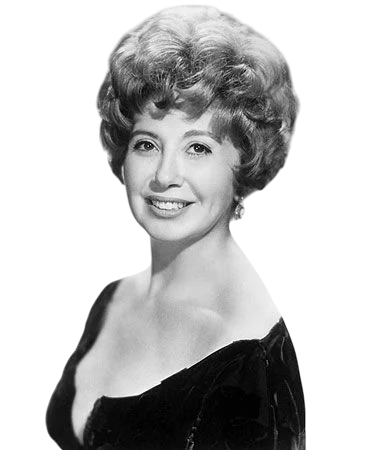
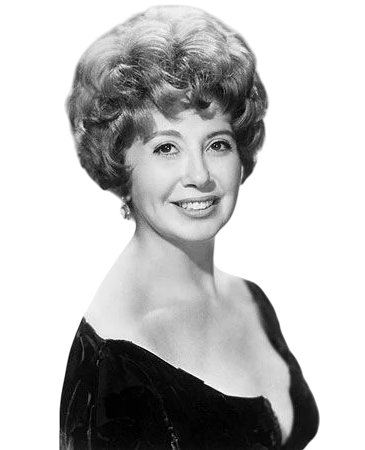
Read : photos enhanced + cuadro designed as per Figma

diff --git a/src/array/Array.jsx b/src/array/Array.jsx
@@ -10,12 +10,6 @@ const phrases = [
     phrase : "I am my own sanctuary and I can be reborn as many times as I choose throughout my life.",
     photo : "./photos/Lady-Gaga.png"
     },
-    
-    {name : "Ruth Bader Ginsburg",
-     role : "American Lawyer and Jurist",
-     phrase : "As women achieve power, the barriers will fall. As society sees what women can do, as women see what women can do, there will be more women out there doing things, and we'll all be better off for it.",
-     photo : "./photos/Ruth-Bader-Ginsburg.png"
-    },
 
     {name : "Michelle Obama", 
      role : "American Attorney, Author & Former First Lady of the United States", 
@@ -33,12 +27,6 @@ const phrases = [
      role : "Fashion Designer & Businesswoman",
      phrase : "A girl should be two things: Who and what she wants.",
          photo : "./photos/Coco-Chanel.png"
-    },
-
-    {name : "Dolly Parton",
-     role : "Singer-songwriter & Musician",
-     phrase : "As long as you live. there's something new everyday.",
-         photo : "./photos/Dolly-Parton.png"
     },
 
     {name : "Judy Garland", 
@@ -101,40 +89,16 @@ const phrases = [
          photo : "./photos/Audre-Lorde.png"
     },
 
-    {name : "Rupi Kaur", 
-     role : "Poet, Illustrator, Photographer & Author",
-     phrase : "What's the greatest lesson a woman should learn? That since day one, she's already had everything she needs within herself. It's the world that convinced her she did not.",
-         photo : "./photos/Rupi-Kaur.png"
-    },
-
-    {name : "June Sarpong",
-     role : "Television Presenter & Executive",
-     phrase : "Believe in yourself and be proud of who you are. Don't let anyone tell you differently. There is beauty in everyone and no one should stop you from growing into a confident and strong young person.",
-         photo : "./photos/June-Sarpong.webp"
-    },
-
     {name : "Isabel Allende",
      role : "Author",
      phrase : "I can promise you that women working together - linked, informed, and educated - can bring peace and prosperity to this forsaken planet.",
          photo : "./photos/Isabel-Allende.png"
     },
 
-    {name : "Beanie Feldstein",
-     role : "Actress", 
-     phrase : "Take the wisdoms of the women in this world and keep them at your side, always.",
-         photo : "./photos/Beanie-Feldstein.png"
-    },
-
     {name : "Alex Elle",
      role : "Author, Wellness Educator & Podcast Host",
      phrase : "I am thankful for my struggle because, without it, I wouldn't have stumbled across my strength",
          photo : "./photos/Alex-Elle.png"
-    },
-
-    {name : "Alaa Murabit", 
-     role : "Physician", 
-     phrase : "I will always be the girl who believed she could make it to the moon, in a world that still debates whether girls should have an education and whether women should have reproductive rights.",
-         photo : "./photos/Alaa-Murabit.png"
     },
 
     {name : "G.D. Anderson", 
@@ -147,12 +111,6 @@ const phrases = [
      role : "Actress & Activist",
      phrase : "Do not ever sell yourself short.",
          photo : "./photos/Jameela-Jamil.png"
-    },
-
-    {name : "Maya Angelou", 
-     role : "Memoirist, Poet & Civil Rights Activist",
-     phrase : "I am grateful to be a woman. I must have done something great in another life.",
-         photo : "./photos/Maya-Angelou.png"
     },
 
     {name : "Jane Goodall", 
@@ -171,12 +129,6 @@ const phrases = [
      role : "Actress",
      phrase : "I'd rather regret the things I've done than regret the things I haven't done.",
          photo : "./photos/Lucille-Ball.png"
-    },
-
-    {name : "Matilda Joslyn Gage", 
-     role : "Writer & Activist",
-     phrase : "The women of today are the thoughts of their mothers and grandmothers, embodied and made alive. They are active, capable, determined and bound to win. They have one-thousand generations back of them...Millions of women dead and gone are speaking through us today.",
-         photo : "./photos/Matilda-Joslyn-Gage.png"
     },
 
     {name : "Arianna Huffington", 
@@ -209,18 +161,6 @@ const phrases = [
         photo : "./photos/Beverly-Sills.png"
     },
 
-    {name : "Mindy Kaling", 
-     role : "Actress, Screenwriter & Producer",
-     phrase : "If you don't see a clear path for what you want, sometimes you have to make it yourself.",
-         photo : "./photos/Mindy-Kaling.png"
-    },
-
-    {name : "Dame Jessica Ennis-Hill",
-     role : "Track & Field Athlete",
-     phrase : "The only one who can tell you 'you can't win' is you, and you don't have to listen.",
-         photo : "./photos/Dame-Jessica-Ennis-Hill.png"
-    },
-
     {name : "Margaret Fuller", 
      role : "Journalist, Editor, Critic, Translator & Activist",
      phrase : "If you have knowledge, let others light their candles in it.",
@@ -233,22 +173,10 @@ const phrases = [
          photo : "./photos/Marilyn-Monroe.png"
     },
 
-    {name : "Oprah Winfrey",
-     role : "Talk Show Host, Television Producer, Actress & Author",
-     phrase : "If you look at what you have in life, you'll always have more. If you look at what you don't have in life, you'll never have enough.",
-         photo : "./photos/Oprah-Winfrey.png"
-    },
-
     {name : "Angela Yee", 
      role : "Radio Personality",
      phrase : "I can encourage the women who are striving to get their footing in the world to keep pushing and to express themselves.",
-         photo : "./photos/Angela-Yee.webp"
-    },
-
-    {name : "Blake Lively", 
-     role : "Actress",
-     phrase : "The most beautiful thing a woman can wear is confidence.",
-         photo : "./photos/Blake-Lively.png"
+         photo : "./photos/Angela-Yee.png"
     },
 
     {name : "Carolina Herrera", 
@@ -267,18 +195,6 @@ const phrases = [
      role : "Activist",
      phrase : "I have learned you are never too small to make a difference.",
          photo : "./photos/Greta-Thunberg.png"
-    },
-
-    {name : "Misty Copeland", 
-     role : "Ballet Dancer",
-     phrase : "Be strong, be fearless, be beautiful. And believe that anything is possible when you have the right people there to support you.",
-         photo : "./photos/Misty-Copeland.png"
-    },
-
-    {name : "Nikita Gill", 
-     role : "Poet, Playwright, Writer & Illustrator",
-     phrase : "Never ever mistake her silence for weakness. Remember that sometimes the air stills before the onset of a hurricane.",
-         photo : "./photos/Nikita-Gill.png"
     },
 
     {name : "Amani Al-Khatahtbeh", 

diff --git a/src/ViewPhrases.css b/src/ViewPhrases.css
@@ -6,10 +6,13 @@
     width: 50%;
     max-width: 3500px;
     max-height: 100%;
-    min-width: 50vw;
-    min-width: 50vw;
+    min-width: 20vw;
+    min-height: auto;
     position: fixed;
     bottom: 0;
+    left: 0;
+    flex-shrink: 1;
+    flex-grow: 1;
 }
 
 .carousel {
@@ -18,17 +21,17 @@
     left: 45%;
     top: 30%;
 }
+
 .viewButtons {
     display: flex;
     flex-direction: column;
-    background-color: rgb(240,230,239);
+    background-color:#F0E6EF;;
     border-radius: 100px;
     align-items: center;
     margin: 50px;
     width: 500px;
-    height: 1000px;
+    height: 1500px;
     border: 1px outset rgb(84, 54, 112);
-
 }
 
 #box1 {
@@ -37,7 +40,6 @@
     top: 30px;
     box-shadow: 5px 5px 0px 0px rgb(84, 54, 112); 
     z-index: 1;
-
 }
 
 #box3 {
@@ -48,29 +50,6 @@
     z-index: 1;
 }
 
-#box3:hover {
-    background-color: rgb(206, 161, 248);
-}
-
-#box1:hover {
-    background-color: rgb(206, 161, 248);
-}
-
-.viewInfo {
-    display: flex;
-    flex-direction: column;
-    background-color: rgb(240,230,239);
-    border-radius: 100px;
-    align-items: center;
-    margin: 50px;
-    border: 1px outset rgb(84, 54, 112);
-    width: 2000px;
-    height: 1000px;
-    box-shadow: 5px 5px 0px 0px rgb(84, 54, 112); 
-    z-index: 2;
-
-}
-
 .quoteIcon {
     width: 200px;
     align-self: flex-start;
@@ -79,26 +58,111 @@
     top: 50px;
 }
 
-.viewInfo:hover {
-    background-color: rgb(170, 99, 236);
+.viewInfo {
+    position: relative;
+    display: flex;
+    flex-direction: column;
+    background-color: #F0E6EF;
+    border-radius: 100px;
+    align-items: center;
+    margin: 50px;
+    border: 1px outset rgb(84, 54, 112);
+    width: 35vw;
+    height: 1500px;
+    box-shadow: 5px 5px 0px 0px rgb(84, 54, 112); 
+    z-index: 2;
 }
 
-p {
-    padding: 50px;
-}
 .viewPhrase {
     opacity: 1;
-    font-size: 3vmin;
-    padding-bottom: 0;
+    font-size: clamp(6.5rem, 2vw, 2rem);
     font-family: "Inter", sans-serif;
+    padding-left: 100px;
+    padding-right: 100px;
+}
 
+hr {
+    border-bottom: 15px solid #9C89B8;
+    margin-top: 250px;
+    position: absolute;
+    bottom: 350px;
+    width: 85%;
 }
 
 .viewAuthor {
+    position: absolute;
+    bottom: 0px;
     align-self: flex-end;
     font-size: 80%;
     font-size: 3vmin;
-    padding-top: 0;
-        font-family: "Inter", sans-serif;
+    font-size: 2vmax;
+    margin-top: 150px;
+    font-family: "Inter", sans-serif;
+    padding-right: 75px;
 }
 
+
+.viewInfo:hover {
+    background-color: rgb(218, 204, 231);
+}
+#box3:hover {
+    background-color: rgb(206, 161, 248);
+}
+#box1:hover {
+    background-color: rgb(206, 161, 248);
+}
+
+/*
+
+@media (max-width: 600px) {
+    .viewContainer {
+    display: flex;
+    flex-direction: column;
+    justify-content: center;
+    }
+    .viewPhoto {
+    position: fixed;
+    bottom: 0;
+    justify-self: center;
+    }
+
+    .carousel {
+        align-self: center;
+        justify-self: center;
+    }
+}
+@media (min-width: 600px) {
+    .viewContainer {
+    display: flex;
+    flex-direction: column;
+    }
+    .viewPhoto {
+    position: fixed;
+    bottom: 0;
+    justify-self: center;
+    }
+
+    .carousel {
+    position: fixed;
+    top: 20vw;
+    right: 20vw;
+
+    }
+@media (max-width: 600px) {
+    .viewInfo 
+}
+@media (min-width: 600px) {
+    ...
+}
+@media  (min-width: 768px) {
+    ...
+}
+@media  (min-width: 992px) {
+    ...
+}
+@media (min-width: 1200px) {
+    ...
+}
+}
+
+*/

diff --git a/src/ViewPhrases.jsx b/src/ViewPhrases.jsx
@@ -30,7 +30,10 @@ const [index, setIndex] = useState(0);
                   <button className="viewButtons" id="box1" onClick={ShowPrevious}> &#060;</button>
                   <div key={current.phrase} className="viewInfo" id="box2">
                           <img src="./quotes.png" alt="quote icon" className="quoteIcon"></img>
-                          <p className="viewPhrase">{current.phrase}</p>
+                          <div className="fitPhrase">
+                            <p className="viewPhrase">{current.phrase}</p>
+                          </div>
+                          <hr></hr>
                           <p className="viewAuthor">{current.name}</p>
                   </div>
                   <div>
